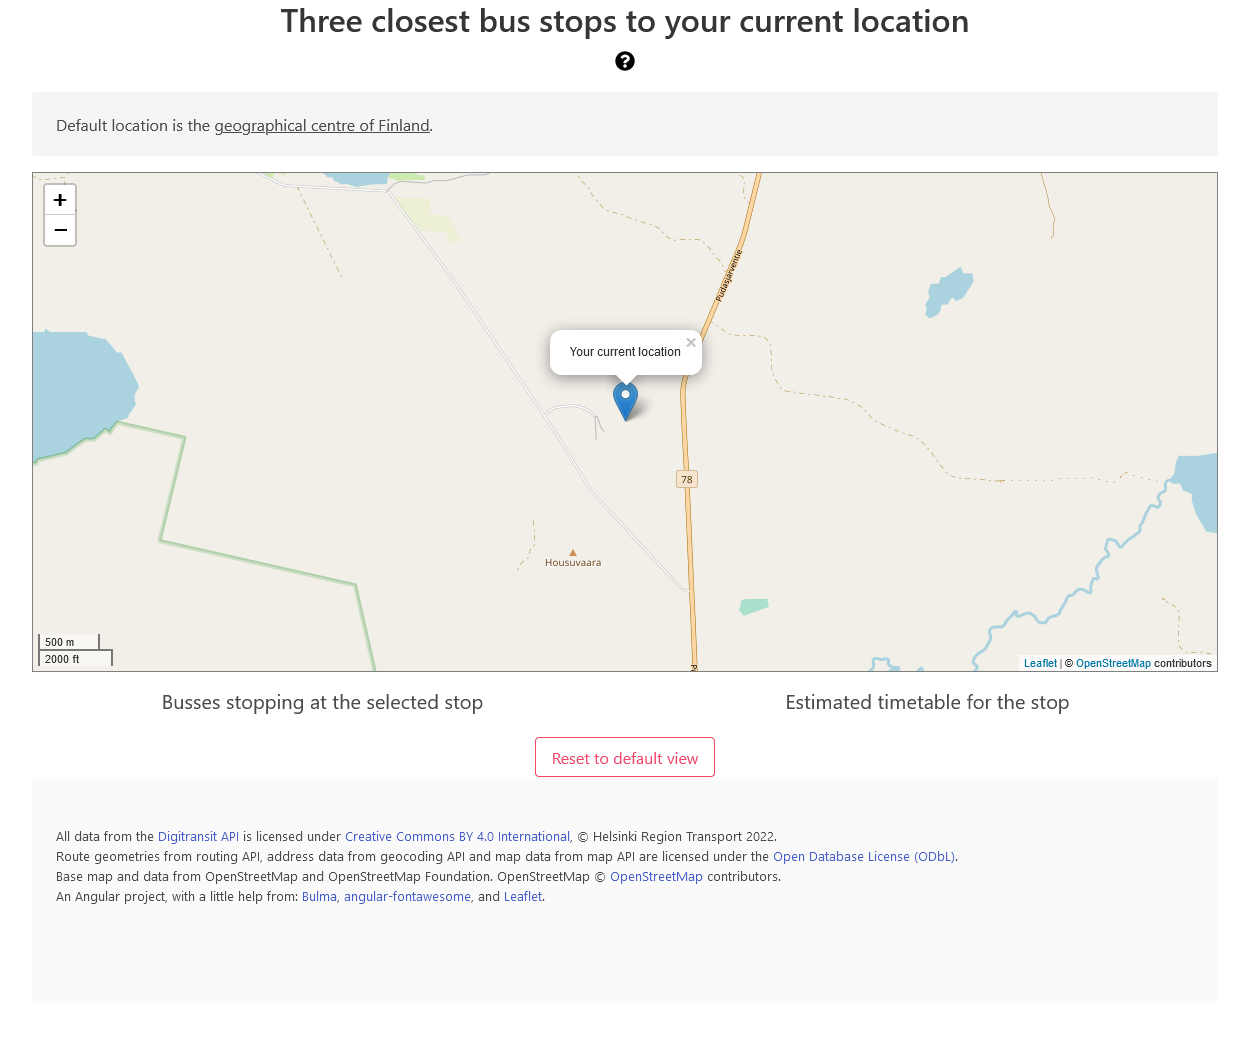
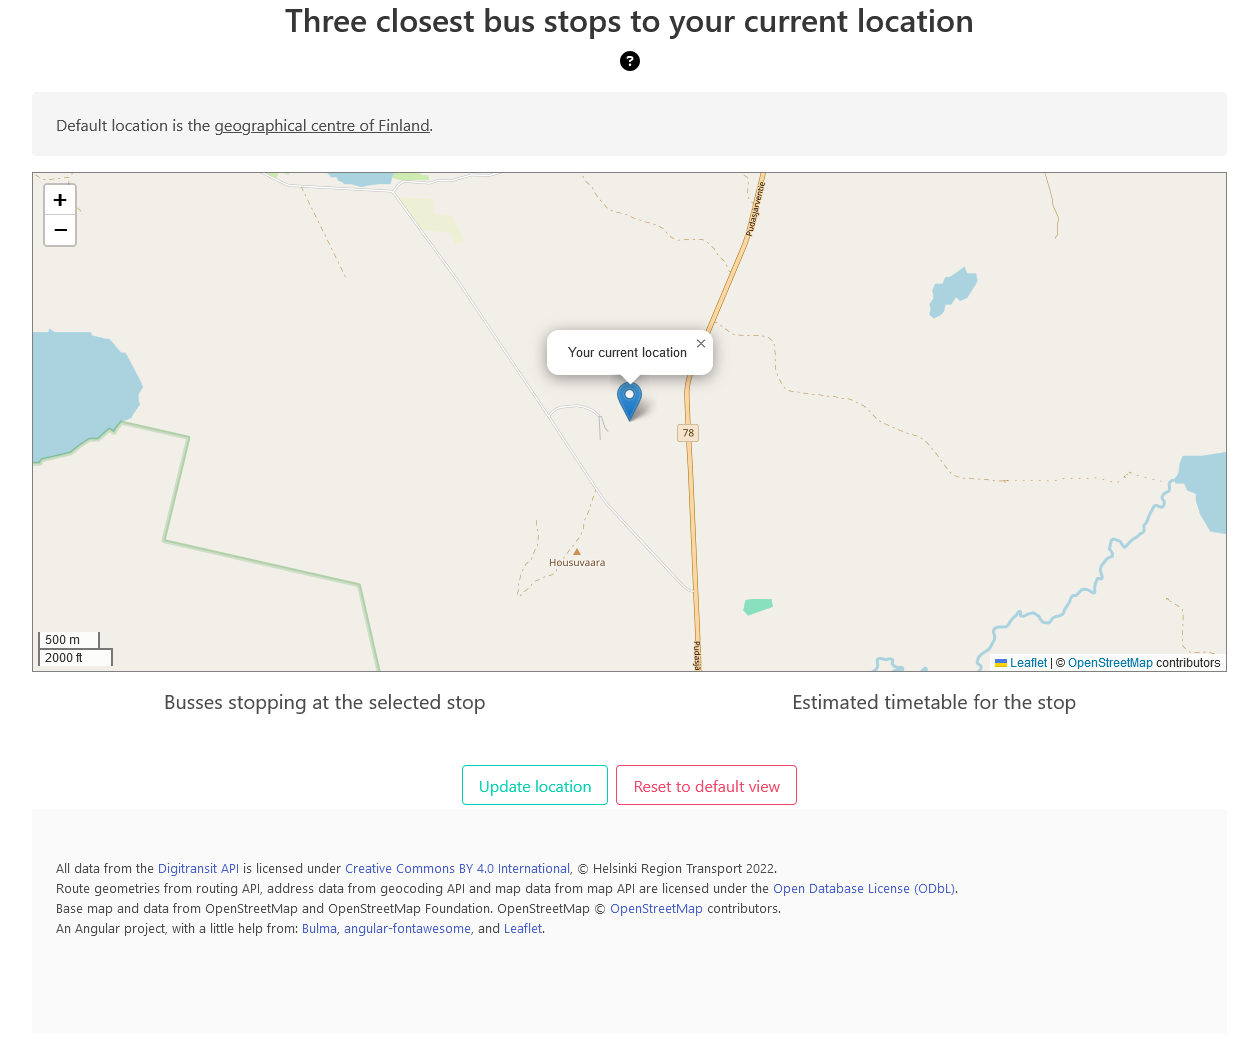
Update documentation

diff --git a/docs/index.html b/docs/index.html
@@ -28,10 +28,11 @@
         <h2>Images</h2>
 
         <ul>
-            <li><a href="images/default-view.png">Default view</a>. Starting point for this app.</li>
-            <li><a href="images/selected-current-location.png">Current or selected location</a>. The app has been given permission to detect your current location, or you have selected some point on the map. The three nearest bus stops are shown. Note that there may be stops with the same name - that means that the stop in question serves multiple purposes (such as long distance stop and local traffic stop) and are therefore considered separate entities as far as the data is concerned. One of these kinds of stops may return empty data sets. The small help or guide section is also visible due to user clicking the question mark icon.</li>
+            <li><a href="images/default-view.png">Default view</a>. Starting point for this app. Your browser may ask for permission to use location services before you can proceed further. You can always come back to this view by clicking the Reset to default view button. You can also always update your location to your current one if you browse other locations and bus stops by clicking the Update location button.</li>
+            <li><a href="images/selected-current-location.png">Current or selected location</a>. The app has been given permission to detect your current location, or you have selected some point on the map. The three nearest bus stops are shown. Note that there may be stops with the same name - that means that the stop in question serves multiple purposes (such as long distance stop and local traffic stop) and are therefore considered separate entities as far as the data is concerned. One of these kinds of stops may return empty data sets. </li>
             <li><a href="images/selected-stop.png">Selected stop</a>. In order to see busses serving that stop you need to select one of the three stops suggested. In addition to the busses you can also see timetables - or nothing at all depending on search results. The listings do not cover every possible bus route - only those that are in the digitransit database. Some of them are in real time, and some show just the expected scheduled time. You can update the timetables either by selecting a line or by clicking the Update timetable button. It is also possible that nothing is shown at all.</li>
             <li><a href="images/zoomed-in.png">Zoomed in</a>. You can zoom in and out as usual in leaflet based apps.</li>
+            <li><a href="images/guide-component.png">Toggle show help on and off</a>. A short explanation and guide/help to this web application. It is visible here due to user clicking the question mark icon.</li>
         </ul>
 
     </body>

diff --git a/README.md b/README.md
@@ -6,4 +6,4 @@ This particular repository is an updated version of an already existing reposito
 
 Three closest bus stops to your location, with data from [digitransit.fi](https://digitransit.fi) (not complete, therefore), valid only in Finland as this uses data specific to Finland.
 
-Documentation is usually behind the current commit. If so, the reason for this is that something is not finished or at the state I am not happy about it. Therefore until that is fixed the documentation will not reflect the current status. Currently, the documentation is not up-to-date due to addition of the *Update location* button.
+Documentation is now up-to-date.
